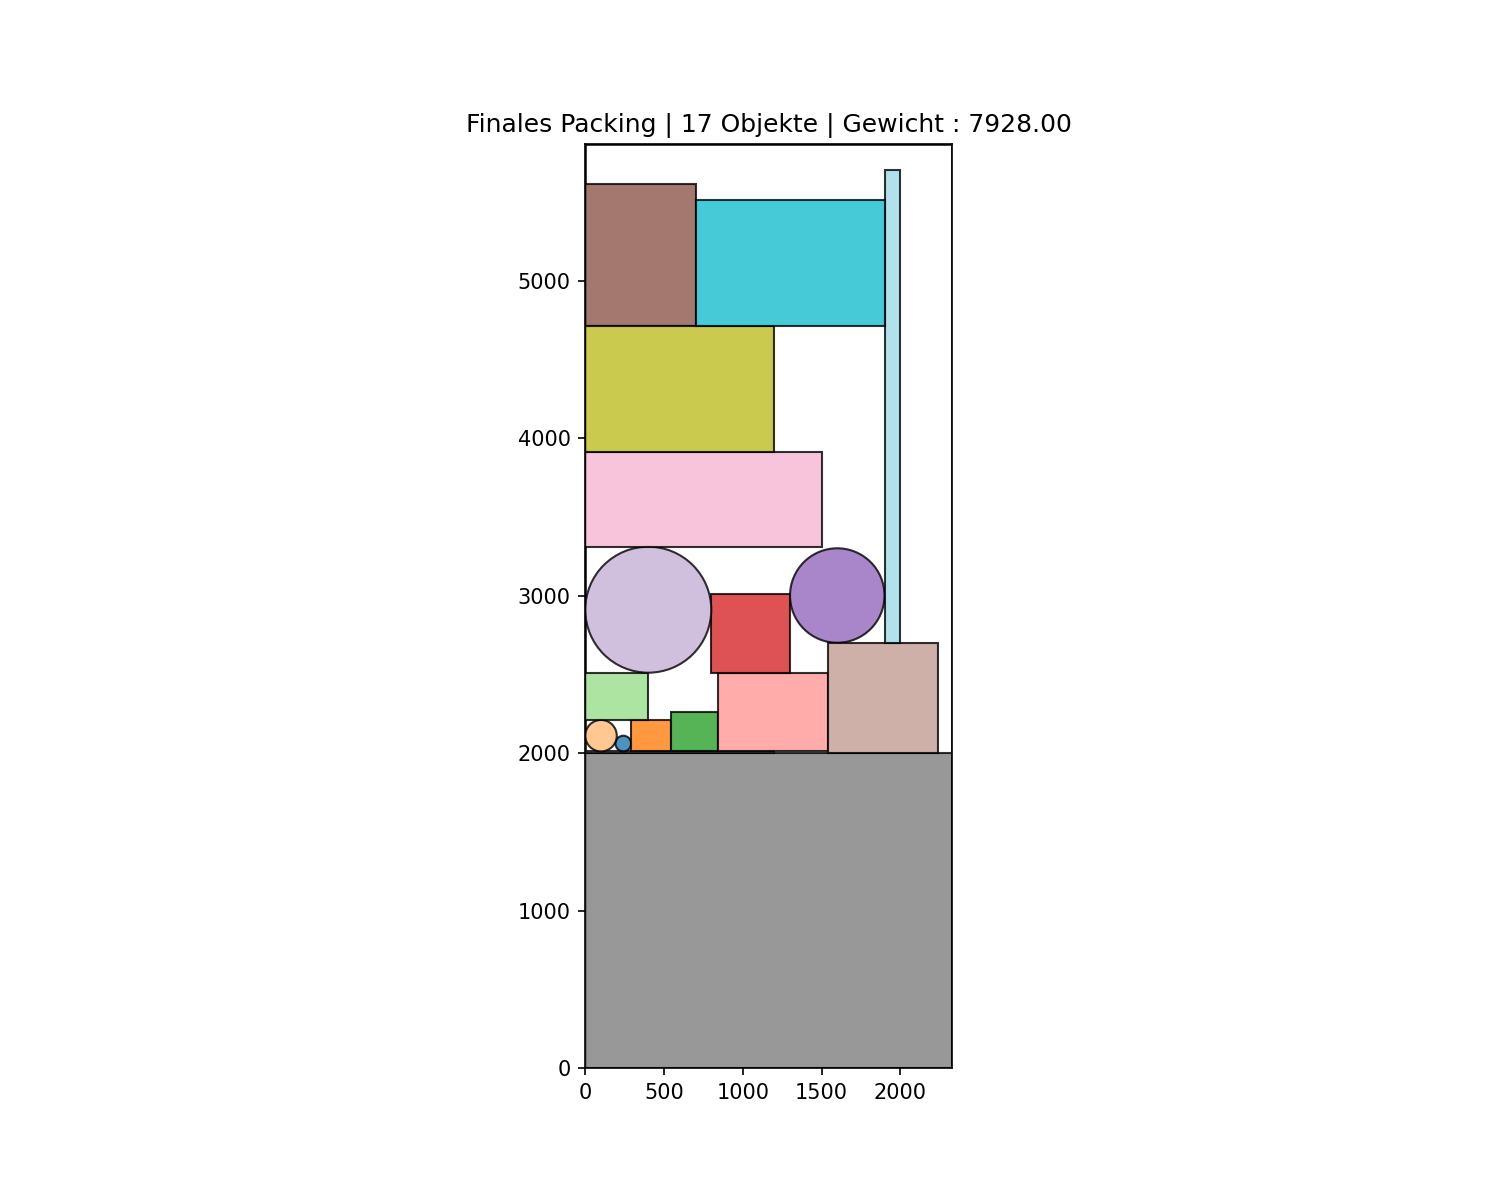
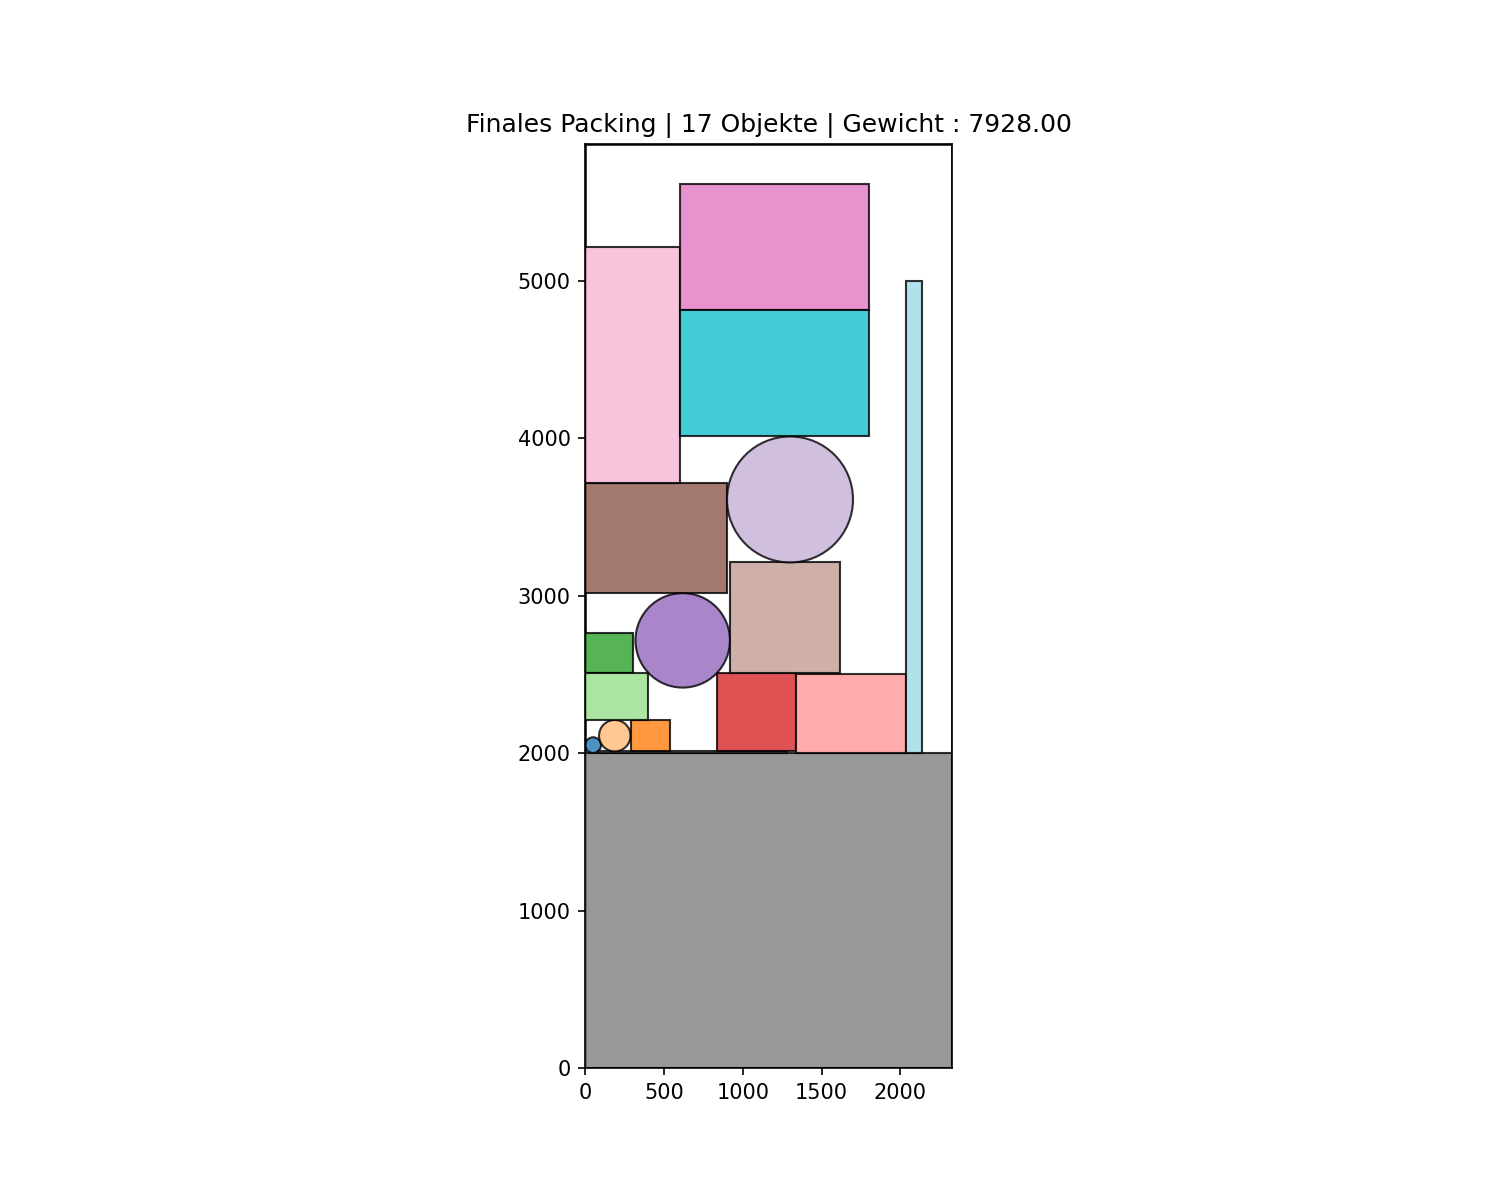
pivot change

Changed region(s): [[0.368, 0.1233, 0.644, 0.6475]]

diff --git a/backend/src/Algorithm2d - Kopie.py b/backend/src/Algorithm2d - Kopie.py
@@ -565,75 +565,80 @@ def plot_final_solution(config, params, type_desc, output_filename="final_packin
     plt.savefig(output_filename, dpi=150); plt.close(fig)
     print("PNG-Datei gespeichert.")
 
+# --- EXPORT-FUNKTION (Mit Zentrumskoordinaten im Output) ---
 def update_and_save_order_json(original_data_root, final_solution_numpy, id_map, final_total_weight, output_filename):
     """
-    Füllt die berechneten Daten (Positionen) zurück in die
-    ursprüngliche JSON-Struktur (neues Format) und speichert sie.
+    Füllt die berechneten Daten (Positionen als ZENTRUM und Dimensionen)
+    zurück in die JSON-Struktur und speichert sie.
+    Das 'rotation'-Feld wird entfernt.
     """
     print(f"Aktualisiere Bestelldaten und speichere sie zurück nach '{output_filename}'...")
 
-    # 1. Erstelle eine Map der berechneten Platzierungen
-    # Map: { original_json_id (name): { "position": {...}, "rotation": {...} } }
-    placement_map = {}
-    item_instance_counter = {} # Brauchen wir theoretisch nicht mehr, da quantity=1
+    placement_map = {} # Map: { original_json_id (name): { placement_dict } }
+    item_instance_counter = {}
 
     for i in range(final_solution_numpy.shape[0]):
         item = final_solution_numpy[i]
         seq_type_id = int(item[IDX_TYPE_ID])
-        original_json_id = id_map.get(seq_type_id) # Sollte der 'name' sein
+        original_json_id = id_map.get(seq_type_id)
         if not original_json_id:
             print(f"WARNUNG: Konnte Original-ID (Name) für seq_type_id {seq_type_id} nicht finden.")
             continue
 
-        # Da quantity=1, brauchen wir keine instance_id mehr, aber behalten die Zählung für Konsistenz
         instance_count = item_instance_counter.get(original_json_id, 0) + 1
         item_instance_counter[original_json_id] = instance_count
-        # instance_id = f"{original_json_id}_{instance_count}" # Nicht mehr benötigt im Export
 
+        # --- KORREKTUR: Verwende Zentrumskoordinaten direkt ---
         pos_dict = {
-            "x": round(item[IDX_X] - item[IDX_W]/2, 2), # Bottom-Left X
-            "y": round(item[IDX_Y] - item[IDX_H]/2, 2), # Bottom-Left Y
+            "x": round(item[IDX_X], 2), # Verwende direkt IDX_X (Zentrum)
+            "y": round(item[IDX_Y], 2), # Verwende direkt IDX_Y (Zentrum)
             "z": 0.0
         }
-        is_rotated = (item[IDX_GEOM_TYPE] == GEOM_RECT) and (item[IDX_W] != item[IDX_W_ORIG])
-        rot_dict = {"x_axis": 0, "y_axis": 0, "z_axis": 90 if is_rotated else 0}
+        # --- ENDE KORREKTUR ---
 
+        # Dimensionen (repräsentieren die Rotation implizit)
+        dimensions_dict = {}
+        if item[IDX_GEOM_TYPE] == GEOM_RECT:
+            dimensions_dict = {
+                "width": round(item[IDX_W], 2),
+                "length": round(item[IDX_H], 2)
+            }
+        elif item[IDX_GEOM_TYPE] == GEOM_CIRCLE:
+            dimensions_dict = {
+                "radius": round(item[IDX_RADIUS], 2)
+            }
+
+        # Füge Dimensionen zum Placement hinzu
         placement_map[original_json_id] = {
-             # "id": original_json_id, # Redundant, da Key
-             # "instance_id": instance_id, # Nicht im neuen Format
-             "stack_level": 0, # Immer 0 in 2D
+             "stack_level": 0,
              "position": pos_dict,
-             "rotation": rot_dict
+             # "rotation": rot_dict, # Entfernt
+             "dimensions": dimensions_dict
          }
 
-    # 2. Iteriere durch die *originale* Objektliste und füge Platzierung hinzu
+    # Aktualisiere die *originale* Objektliste im JSON
     objects_updated_count = 0
     if "objects" in original_data_root and isinstance(original_data_root["objects"], list):
         for obj in original_data_root["objects"]:
             obj_name = obj.get("name")
             if obj_name in placement_map:
-                # Füge das 'placement'-Dictionary hinzu oder aktualisiere es
                 obj["placement"] = placement_map[obj_name]
                 objects_updated_count += 1
             else:
-                 # Optional: Füge leeres Placement hinzu, wenn Objekt nicht platziert wurde
                  if "placement" not in obj:
-                     obj["placement"] = {} # Oder setze auf null/default?
+                     obj["placement"] = {} # Optional: Leeres Placement
 
     print(f"{objects_updated_count} von {len(placement_map)} platzierten Objekten in Original-JSON gefunden und aktualisiert.")
 
-    # 3. Optional: Füge Gesamtgewicht zum Container hinzu
+    # Optional: Füge Gesamtgewicht zum Container hinzu
     if "container" in original_data_root:
         original_data_root["container"]["calculated_total_weight_kg"] = round(final_total_weight, 2)
-        # TODO: Effizienz berechnen?
-        # original_data_root["container"]["calculated_efficiency_percent"] = ...
 
-    # 4. Speichere die *gesamte* modifizierte Root-Struktur
+    # Speichere die *gesamte* modifizierte Root-Struktur
     try:
-        # Kein {"order": ...} Wrapper mehr nötig
         with open(output_filename, 'w', encoding='utf-8') as f:
-            json.dump(original_data_root, f, indent=4, ensure_ascii=False) # indent=4 für Lesbarkeit
-        print(f"JSON-Datei ('{os.path.basename(output_filename)}') erfolgreich mit Platzierungen aktualisiert.")
+            json.dump(original_data_root, f, indent=4, ensure_ascii=False)
+        print(f"JSON-Datei ('{os.path.basename(output_filename)}') erfolgreich mit Zentrumskoordinaten aktualisiert.")
     except Exception as e:
         print(f"FEHLER beim Speichern der finalen JSON-Datei: {e}")
 # -------------------- HAUPTPROGRAMM (Headless) --------------------
